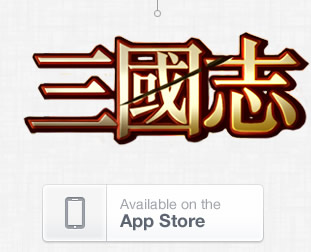
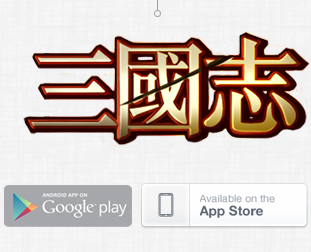
1

diff --git a/upload/resources/images/show.css b/upload/resources/images/show.css
@@ -20,7 +20,8 @@ body{ width:100%; background:url(bg3.jpg) repeat #FFF; color:#4A4A4A; font-famil
 
 #main{ width:1004px; height:auto; background:url(bg3.jpg) repeat; padding:65px 0; clear:both; margin:0 auto; overflow:hidden;}
 	
-	#main .pos{ width:940px; height:46px; margin:0 auto; clear:both;}
+	#main .pos{ width:940px; height:46px; margin:0 auto; clear:both; background:url(honor_tit1.jpg) no-repeat;}
+		#main .pos h1 {font-size:18px;line-height:36px;}
 	#main .content{ width:940px; min-height:500px; height:auto!important; height:500px; overflow:visible; background:url(bg4.jpg) 243px 0 repeat-y; margin:0 auto; clear:both;}
 		#main .content .left{ width:265px; height:auto; float:left; overflow:hidden;}
 			#main .content .left div{ width:245px; height:80px; clear:both; overflow:hidden;}

diff --git a/upload/application/views/honor_view.php b/upload/application/views/honor_view.php
@@ -38,7 +38,7 @@
     <?php $i=1; ?>
     <?php foreach($product as $row): ?>
     	<div class="pos">
-        	<img src="<?php echo base_url('resources/images/honor_tit1.jpg'); ?>" />
+        	<h1><?php echo $row->product_name; ?></h1>
         </div>
         
         <div class="honor_con">
@@ -68,8 +68,8 @@
             	<img src="<?php echo $row->product_logo_url; ?>" border="0" usemap="#Map<?php echo $i; ?>" />
                 <map name="Map<?php echo $i; ?>" id="Map<?php echo $i; ?>">
                 <?php if(!empty($row->product_ios_download) && !empty($row->product_android_download)): ?>
-                	<area shape="rect" coords="42,185,265,243" href="<?php echo $row->product_ios_download; ?>" />
-                	<area shape="rect" coords="42,185,265,243" href="<?php echo $row->product_android_download; ?>" />
+                    <area shape="rect" coords="5,186,132,227" href="<?php echo $row->product_android_download; ?>" />
+                    <area shape="rect" coords="142,185,306,227" href="<?php echo $row->product_ios_download; ?>" />
                 <?php else: ?>
                 	<area shape="rect" coords="42,185,265,243" href="<?php if(!empty($row->product_ios_download)) echo $row->product_ios_download; else $row->product_android_download; ?>" />
                 <?php endif; ?>
